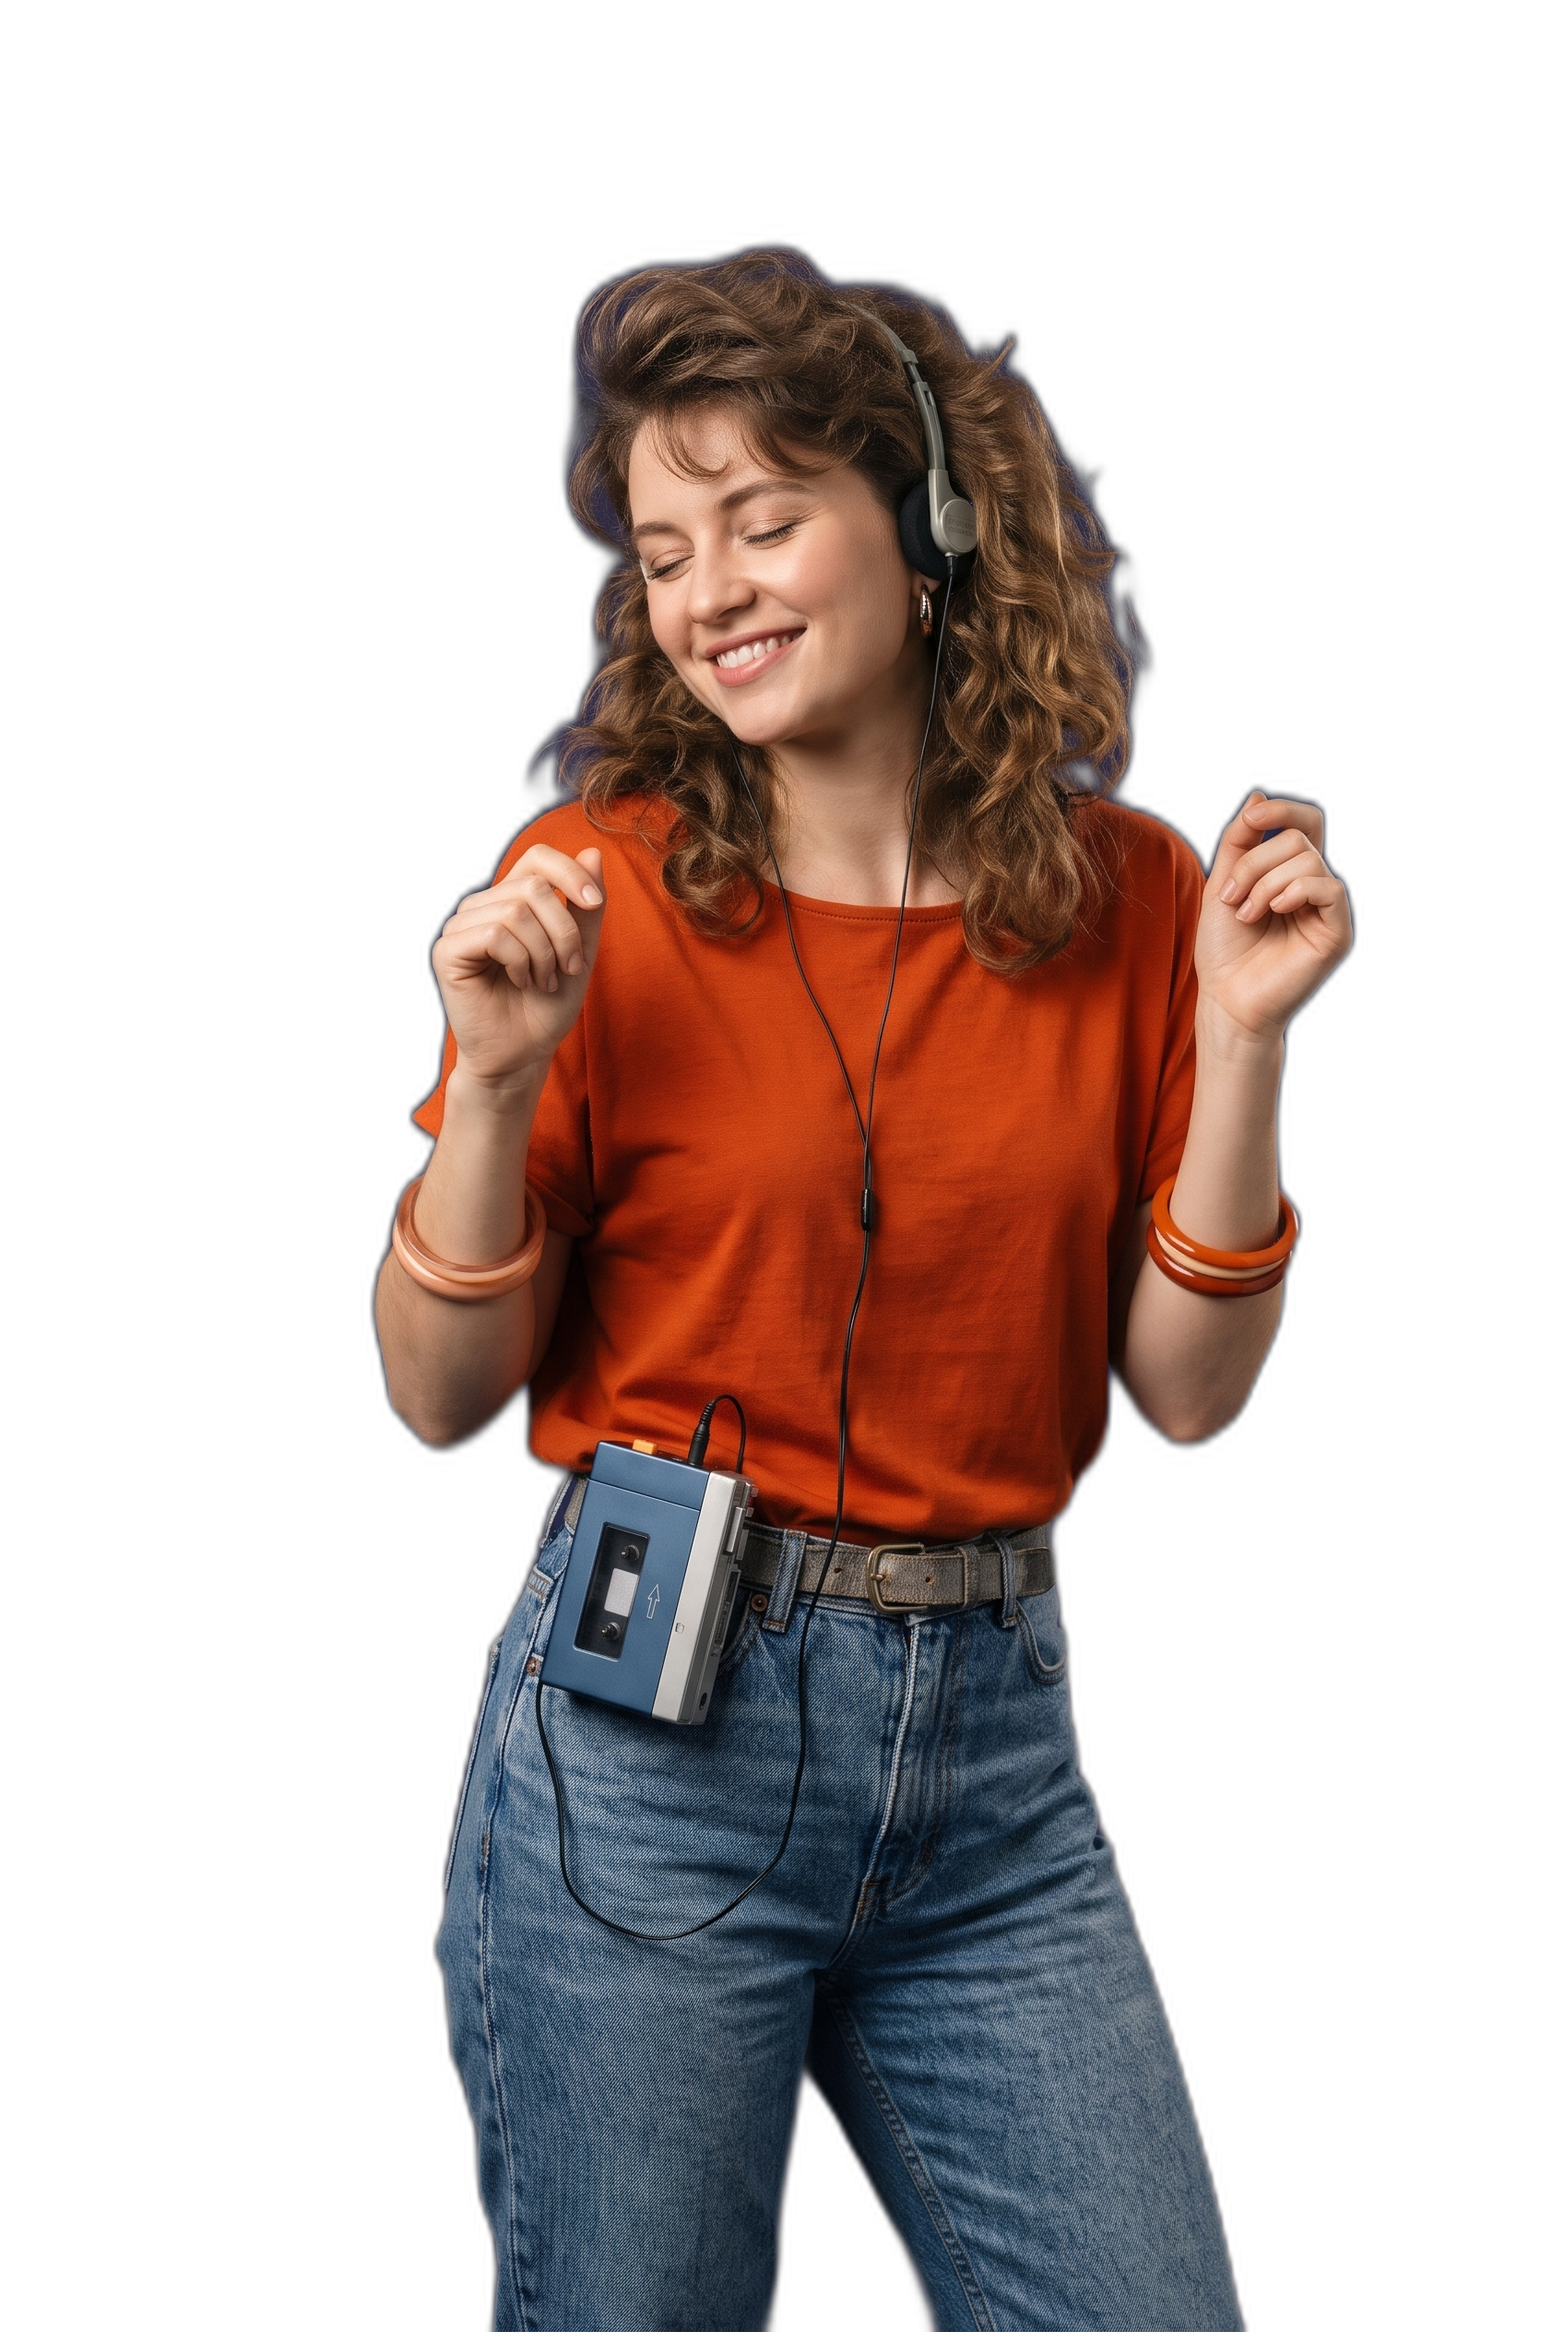
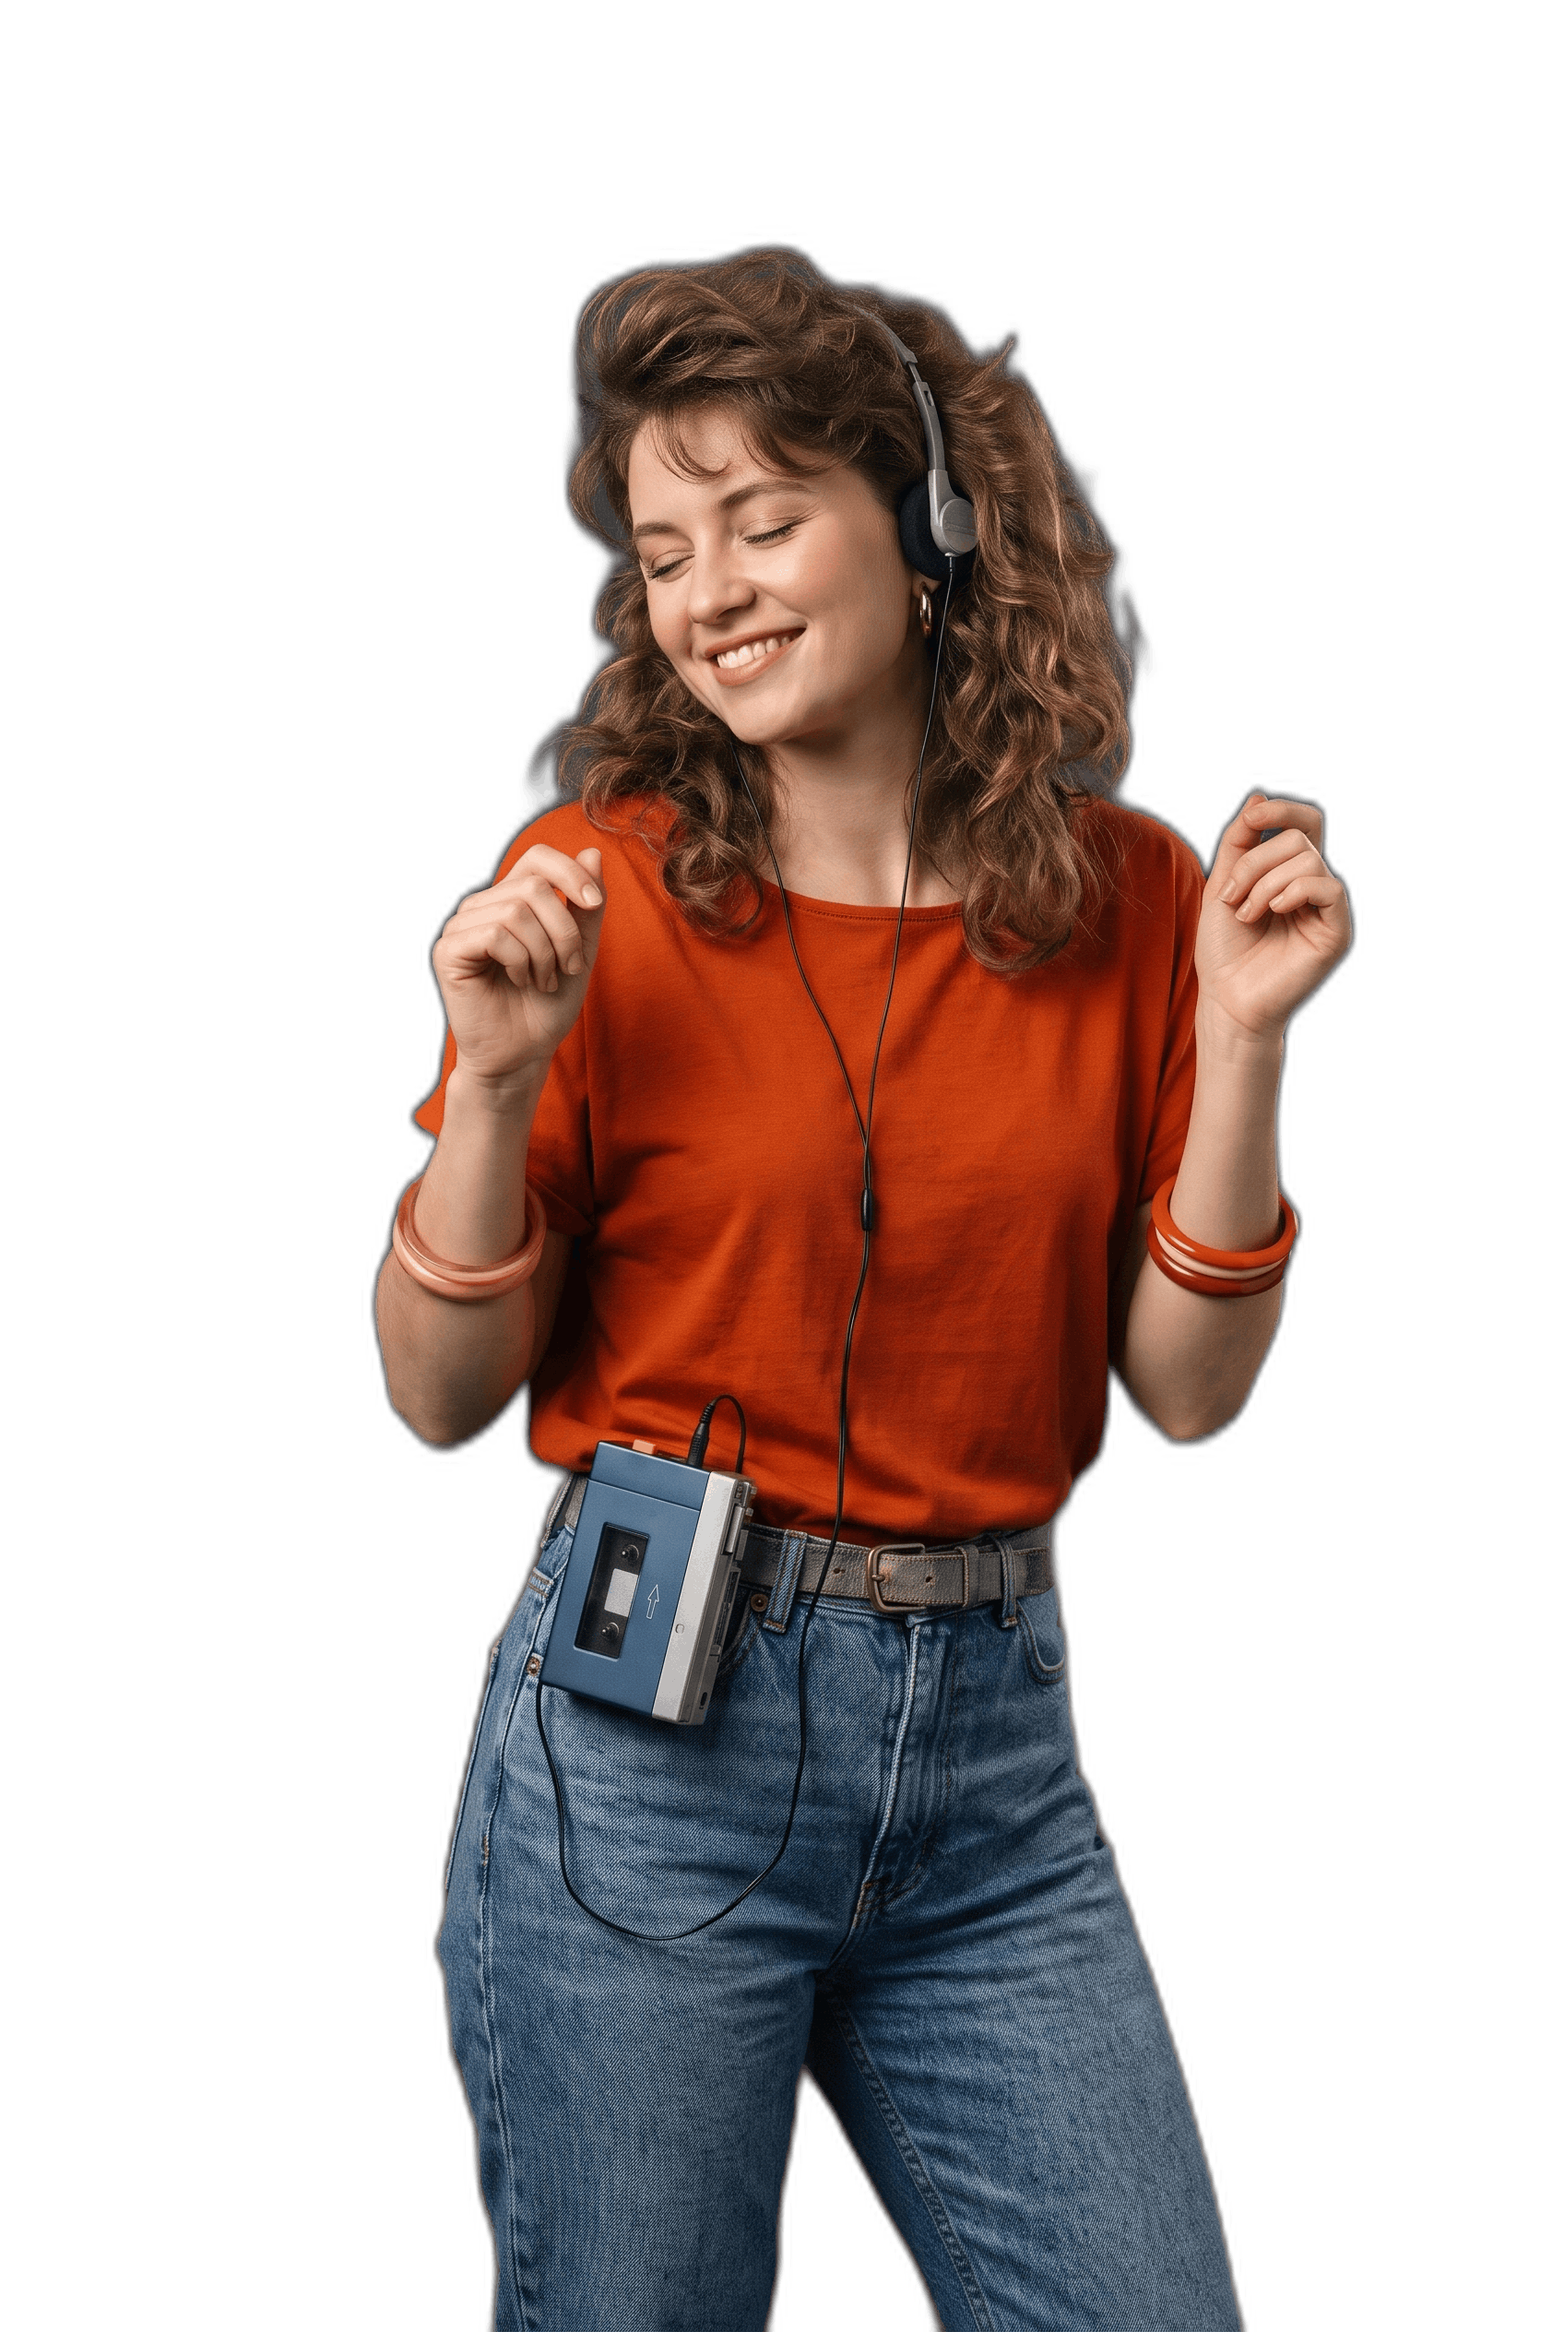
finalized the look

diff --git a/frontend/src/styles/auth.css b/frontend/src/styles/auth.css
@@ -42,9 +42,9 @@
 
 .welcome-nav-link,
 .welcome-login {
-  font-family: var(--font-nav);
+  font-family: var(--font);
   font-size: 0.78rem;
-  font-weight: 500;
+  font-weight: 800;
   letter-spacing: 0.14em;
   text-transform: uppercase;
   text-decoration: none;
@@ -58,16 +58,17 @@
 }
 
 .welcome-nav-link:hover {
-  border-color: var(--brand-background);
+  border-color: var(--brand-accent);
 }
 
 .welcome-brand {
-  font-family: var(--font-nav);
-  font-size: 1.55rem;
-  font-weight: 500;
-  letter-spacing: 0.3em;
+  font-family: var(--font-display);
+  font-size: 1.7rem;
+  font-weight: 400;
+  font-synthesis: none;
+  letter-spacing: 0.12em;
   /* letter-spacing adds trailing space after the last letter; offset it so the word stays centered */
-  margin-right: -0.3em;
+  margin-right: -0.12em;
   text-decoration: none;
   color: #fff;
 }
@@ -85,8 +86,8 @@
 }
 
 .welcome-login:hover {
-  background: var(--brand-background);
-  color: var(--brand-primary-deep);
+  background: var(--brand-accent);
+  border-color: var(--brand-accent);
 }
 
 /* Hero */
@@ -105,11 +106,12 @@
 
 .welcome-title {
   margin: 0 0 var(--space-6);
-  font-family: var(--font-editorial);
+  font-family: var(--font-display);
   font-size: clamp(2.6rem, 5vw, 4.25rem);
   font-weight: 400;
+  font-synthesis: none;
   line-height: 1.08;
-  letter-spacing: -0.01em;
+  letter-spacing: 0.01em;
 }
 
 .welcome-subtitle {
@@ -123,10 +125,10 @@
   display: inline-block;
   padding: 18px 30px;
   background: var(--brand-background);
-  color: var(--brand-primary-deep);
-  font-family: var(--font-nav);
+  color: var(--brand-dark-background-light);
+  font-family: var(--font);
   font-size: 0.8rem;
-  font-weight: 600;
+  font-weight: 900;
   letter-spacing: 0.16em;
   text-transform: uppercase;
   text-decoration: none;
@@ -151,6 +153,8 @@
   max-width: 62vw;
   object-fit: contain;
   object-position: bottom;
+  transform: translateX(-0.5in) scale(1.2);
+  transform-origin: bottom center;
   pointer-events: none;
   user-select: none;
 }
@@ -165,6 +169,11 @@
   height: 20vh;
   background: var(--brand-background);
   clip-path: polygon(0 25%, 100% 50%, 100% 100%, 0 100%);
+}
+
+/* The login / sign-up page uses grays instead of the blues */
+.login-main ~ .welcome-desk {
+  background: var(--brand-gray-light);
 }
 
 .welcome-arrow {
@@ -204,42 +213,43 @@
   flex-direction: column;
   gap: var(--space-4);
   padding: clamp(24px, 5vw, 40px);
-  background: var(--brand-background);
-  color: var(--brand-primary-deep);
+  background: var(--brand-gray-light);
+  color: var(--brand-dark-background-light);
   border-radius: 4px;
-  box-shadow: 0 18px 48px rgb(23 54 81 / 0.28);
+  box-shadow: 0 18px 48px rgb(0 0 0 / 0.35);
 }
 
 .login-title {
   margin: 0;
-  font-family: var(--font-editorial);
+  font-family: var(--font-display);
   font-size: 2.1rem;
   font-weight: 400;
+  font-synthesis: none;
   line-height: 1.15;
 }
 
 .login-subtitle {
   margin: 0 0 var(--space-2);
-  color: var(--brand-primary-dark);
+  color: var(--brand-gray);
 }
 
 .login-field {
   display: flex;
   flex-direction: column;
   gap: 6px;
-  font-family: var(--font-nav);
+  font-family: var(--font);
   font-size: 0.75rem;
-  font-weight: 500;
+  font-weight: 800;
   letter-spacing: 0.12em;
   text-transform: uppercase;
 }
 
 .login-input {
   padding: 12px 14px;
-  border: 1px solid var(--brand-secondary);
+  border: 1px solid var(--brand-gray);
   border-radius: 2px;
   background: #fff;
-  color: var(--brand-primary-deep);
+  color: var(--brand-dark-background-light);
   font: inherit;
   font-family: var(--font);
   font-size: 1rem;
@@ -248,14 +258,14 @@
 }
 
 .login-input:focus {
-  border-color: var(--brand-primary);
+  border-color: var(--brand-dark-background-light);
 }
 
 .login-notice {
   margin: 0;
   padding: 10px 12px;
   background: #fff;
-  border-left: 3px solid var(--brand-primary);
+  border-left: 3px solid var(--brand-dark-background-light);
   font-size: 0.9rem;
 }
 
@@ -264,11 +274,11 @@
   padding: 16px;
   border: none;
   border-radius: 2px;
-  background: var(--brand-primary);
+  background: var(--brand-dark-background-light);
   color: #fff;
-  font-family: var(--font-nav);
+  font-family: var(--font);
   font-size: 0.8rem;
-  font-weight: 600;
+  font-weight: 900;
   letter-spacing: 0.16em;
   text-transform: uppercase;
   cursor: pointer;
@@ -276,7 +286,7 @@
 }
 
 .login-submit:hover {
-  background: var(--brand-primary-dark);
+  background: var(--brand-accent);
 }
 
 .login-switch {
@@ -286,57 +296,148 @@
 }
 
 .login-switch a {
-  color: var(--brand-primary-dark);
+  color: var(--brand-dark-background-light);
   font-weight: 600;
 }
 
-/* Small screens: wordmark + log in on top, links below; photo flows under the copy */
+/* ---------- Responsive breakpoints ----------
+   > 1024px  desktop: three-column header, photo pinned bottom-right
+   <= 1024px tablet landscape: smaller photo, tighter padding
+   <= 820px  tablet portrait: everything stacks top to bottom in one flex column
+   <= 600px  phone: photo hidden, copy centered
+   <= 380px  small phone: tighter type and full-width buttons */
+
+@media (max-width: 1024px) {
+  .welcome-hero {
+    padding: 0 clamp(16px, 6vw, 64px) 18vh;
+  }
+
+  .welcome-copy {
+    max-width: 420px;
+  }
+
+  .welcome-photo {
+    right: 0;
+    height: 70vh;
+    max-width: 55vw;
+    transform: scale(1.1);
+  }
+}
+
 @media (max-width: 820px) {
+  /* Header: wordmark, links, log in, stacked */
   .welcome-header {
-    grid-template-columns: 1fr auto;
-    grid-template-areas:
-      'brand login'
-      'nav nav';
-    row-gap: var(--space-4);
+    display: flex;
+    flex-direction: column;
+    align-items: center;
+    gap: var(--space-4);
     padding: 20px 16px;
   }
 
   .welcome-brand {
-    grid-area: brand;
-    font-size: 1.3rem;
-  }
-
-  .welcome-actions {
-    grid-area: login;
+    order: -1;
+    font-size: 1.5rem;
   }
 
   .welcome-nav {
-    grid-area: nav;
+    justify-content: center;
     gap: 6px 20px;
   }
 
+  .welcome-actions {
+    justify-self: auto;
+  }
+
+  /* Hero: copy, then photo, top to bottom */
   .welcome-hero {
     flex-direction: column;
-    align-items: stretch;
+    align-items: center;
+    gap: var(--space-6);
     padding: var(--space-6) 16px 0;
+    text-align: center;
+  }
+
+  .welcome-copy {
+    display: flex;
+    flex-direction: column;
+    align-items: center;
+    max-width: 520px;
+  }
+
+  .welcome-subtitle {
+    max-width: 30ch;
   }
 
   .welcome-photo {
     position: relative;
     right: auto;
     bottom: auto;
-    align-self: center;
-    height: 56vh;
+    height: 50vh;
     max-width: 100%;
     margin-top: auto;
-    padding-top: var(--space-6);
+    transform: none;
   }
 
   .welcome-desk {
     height: 12vh;
   }
 
+  .login-main {
+    padding-bottom: 14vh;
+  }
+
   .welcome-arrow {
     display: none;
+  }
+}
+
+@media (max-width: 600px) {
+  .welcome-photo {
+    display: none;
+  }
+
+  /* With the photo gone, center the copy in the remaining space */
+  .welcome-hero {
+    justify-content: center;
+    padding: var(--space-6) 16px 12vh;
+  }
+
+  .welcome-title {
+    font-size: clamp(2.2rem, 10vw, 2.8rem);
+  }
+
+  .welcome-desk {
+    height: 10vh;
+  }
+
+  .login-main {
+    align-items: start;
+    padding: var(--space-4) 16px 12vh;
+  }
+
+  .login-title {
+    font-size: 1.8rem;
+  }
+}
+
+@media (max-width: 380px) {
+  .welcome-nav {
+    flex-direction: column;
+    align-items: center;
+  }
+
+  .welcome-cta,
+  .welcome-login {
+    width: 100%;
+    text-align: center;
+  }
+
+  .welcome-actions,
+  .welcome-copy {
+    width: 100%;
+  }
+
+  .login-card {
+    padding: 20px;
   }
 }

diff --git a/frontend/src/pages/WelcomePage.tsx b/frontend/src/pages/WelcomePage.tsx
@@ -25,7 +25,6 @@ export function WelcomePage() {
         <img
           className="welcome-photo"
           src={ladyListening}
-          style={{ transform: 'translateX(-0.5in) scale(1.2)', transformOrigin: 'bottom center' }}
           alt="A woman in headphones dancing to music from a cassette walkman clipped to her jeans"
         />
       </main>

diff --git a/frontend/src/styles/global.css b/frontend/src/styles/global.css
@@ -9,6 +9,8 @@
   --brand-background: #dbe4ee;
   --brand-dark-background: #0a0a0a;
   --brand-dark-background-light: #3a3a3a;
+  --brand-gray: #737373;
+  --brand-gray-light: #e5e5e5;
   --font-editorial: 'Newsreader', Georgia, 'Times New Roman', serif;
   --font-nav: 'Jost', system-ui, -apple-system, 'Segoe UI', sans-serif;
 
